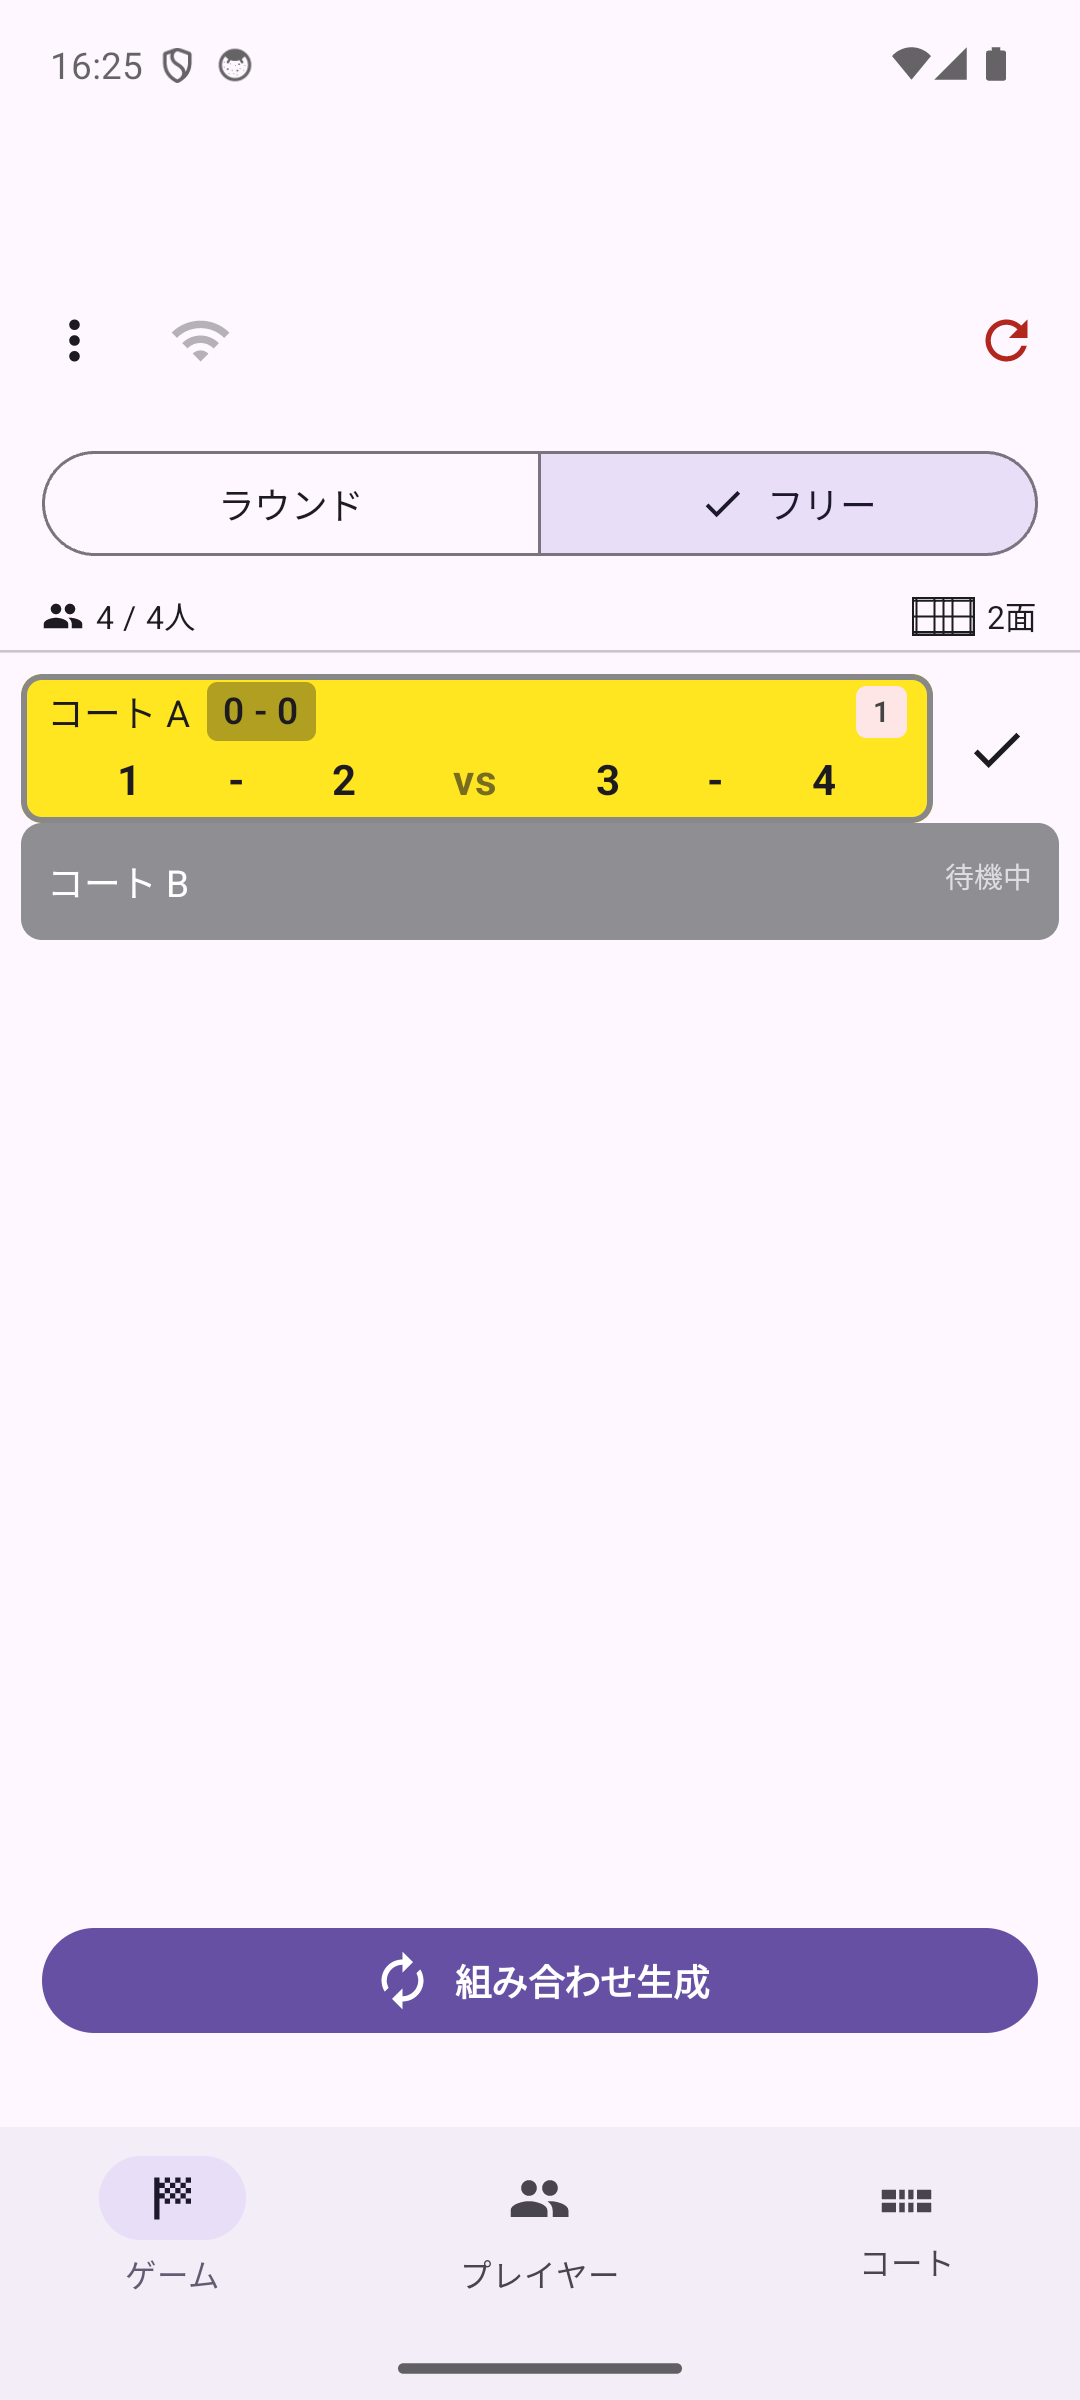
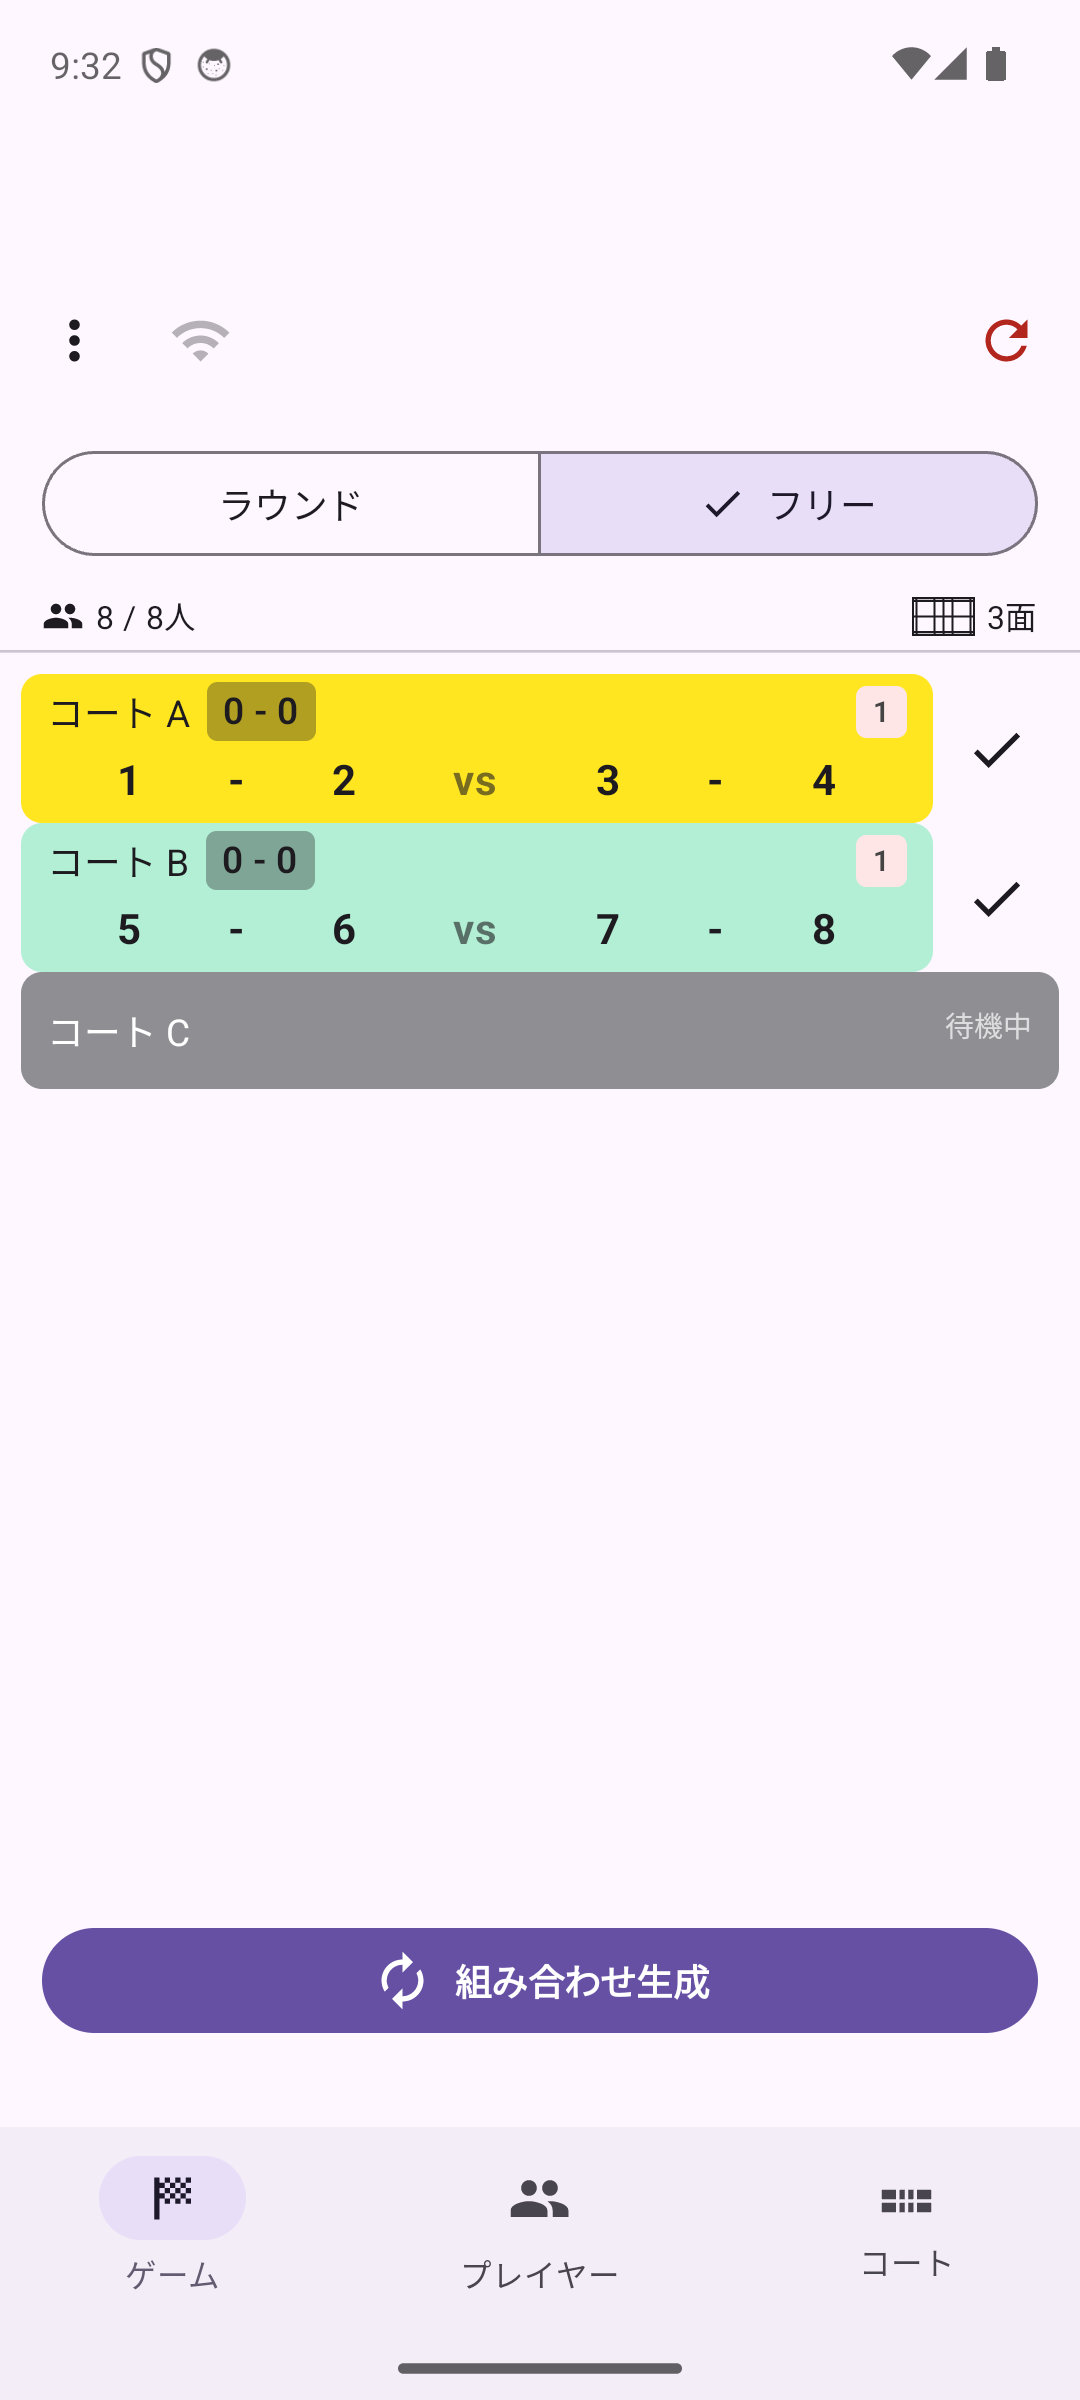
v1.2.9: フリーモード表示の改善とサーバー案内の更新を反映
フリーモードのコート色分け（黄色・緑交互表示）の説明とスクリーンショットを更新し、
切替条件（1&2混合コート除外）の案内も修正。サーバー機能のテザリング案内を
「マスター端末である必要はない」旨に修正。

diff --git a/game-tab.html b/game-tab.html
@@ -52,13 +52,13 @@
 <h2 id="free-mode">2. フリーモード（動的コート割り当て）</h2>
 <p>ゲームタブ上部のモードセレクターで <strong>フリー</strong> を選ぶと、フリーモードに切り替わります。</p>
 <p>フリーモードでは、コートごとに試合の終了・再開を個別に管理できます。空いたコートだけに次の組み合わせが生成されるため、試合時間がバラバラでも効率よく進行できます。</p>
-<div class="note">⚠ フリーモードに切り替えるには、<strong>コートが2面以上</strong>かつ<strong>有効なプレイヤーが8人以上</strong>必要です。条件を満たさない場合はアラートが表示され、ラウンドモードのままになります。</div>
+<div class="note">⚠ フリーモードに切り替えるには、<strong>1&amp;2混合コートを除いて2面以上</strong>かつ<strong>有効なプレイヤーが8人以上</strong>必要です。条件を満たさない場合はアラートが表示され、ラウンドモードのままになります。</div>
 
 <h3>フリーモードの操作</h3>
 <ul>
   <li>試合が終わったら、そのコートの行の右端にあるチェックアイコンをタップして<strong>終了</strong>状態にします</li>
   <li><code>組み合わせ生成</code> で空きコートのみ次の組み合わせが生成されます</li>
-  <li>コートの背景は黄色で表示され、直近の生成で更新されたコートにはグレーの外枠が付きます。終了済みのコートはグレー表示になります</li>
+  <li>終了済みコートは灰色、進行中のコートは黄色と緑を交互に表示します（一覧の見やすさのための色分けで、コートの状態を表すものではありません）</li>
 </ul>
 <div class="ss"><img src="images/advanced-free-mode.png" alt="フリーモードのコート一覧"></div>
 <div class="tip">💡 コート一覧での終了/再開操作と、スコア入力画面の <strong>終了</strong> トグルは連動しています。どちらか一方を操作すればもう一方にも反映されます。</div>
@@ -137,7 +137,8 @@
 <div class="warn">⚠ サーバー稼働中は、この端末の画面をロックしたり他のアプリに切り替えたりしないでください。他の端末との接続が切れる場合があります。</div>
 
 <h4 id="connect">他の端末から接続する</h4>
-<p>接続する端末を、マスター端末と同じ Wi-Fi（またはマスター端末のテザリング）に接続してください。サーバー起動中に Wi-Fi アイコンをタップすると、接続用の URL と QR コードが表示されます。QR コードを読み取るか、URL を直接ブラウザで開いてください。</p>
+<p>接続する端末を、マスター端末と同じ Wi-Fi に接続してください。サーバー起動中に Wi-Fi アイコンをタップすると、接続用の URL と QR コードが表示されます。QR コードを読み取るか、URL を直接ブラウザで開いてください。</p>
+<div class="tip">💡 体育館など会場に Wi-Fi がない場合は、いずれかの端末（マスター端末である必要はありません）のテザリング機能でアクセスポイントを作り、マスター端末を含む他の端末をそこに接続すれば、Wi-Fi がなくてもサーバー機能を利用できます。</div>
 <div class="ss"><img src="images/server-qr.png" alt="QRコード表示画面"></div>
 
 <h4 id="web-features">Web ページでできること</h4>

diff --git a/update-history.html b/update-history.html
@@ -16,6 +16,13 @@
 <p class="back-link"><a href="home.html">← ホームに戻る</a></p>
 <h1>更新履歴</h1>
 
+<h2>v1.2.9</h2>
+<ul>
+  <li>フリーモードのコート一覧表示を変更。直近更新コートのグレー枠線強調を廃止し、進行中のコートは一覧の並び順で黄色・緑を交互に表示するように変更（iOS反映）</li>
+  <li>フリーモードへの切替条件を変更。コート数の判定から1&amp;2混合コートを除外し、警告文にもフリーモードの説明を追記（iOS反映）</li>
+  <li>ゲーム終了後の得点ボタンの視認性を改善。背景色のみ半透明にし、文字色を濃いグレーに変更してコントラスト低下を解消（iOS反映）</li>
+</ul>
+
 <h2>v1.2.8</h2>
 <ul>
   <li>スコア入力画面が常に横向き2カラムレイアウトで表示されていた不具合を修正。iOS版の実際の挙動（強制横向きが安定して効かず、通常は縦向きで表示される）に合わせ、画面の向きに応じて縦向きは1カラムのスクロール表示、横向きは従来の2カラム表示に切り替わるように変更（iOS反映）</li>

diff --git a/home.html b/home.html
@@ -61,9 +61,11 @@
   <li>試合結果メール本文は英語のみ（UI本体は日本語対応）</li>
 </ul>
 
-<h2>バージョン 1.2.8 更新内容</h2>
+<h2>バージョン 1.2.9 更新内容</h2>
 <ul>
-  <li>スコア入力画面が常に横向き2カラムレイアウトで表示されていた不具合を修正。通常は縦向き1カラムのスクロール表示、端末を横向きにすると2カラム表示に切り替わるように変更</li>
+  <li>フリーモードのコート一覧表示を変更。直近更新コートのグレー枠線強調を廃止し、進行中のコートは黄色・緑を交互に表示</li>
+  <li>フリーモードへの切替条件を変更（1&amp;2混合コートを除く2面以上に）し、警告文にもフリーモードの説明を追記</li>
+  <li>ゲーム終了後の得点ボタンの視認性を改善</li>
 </ul>
 
 <h2>フィードバック</h2>

diff --git a/index.html b/index.html
@@ -61,9 +61,11 @@
   <li>試合結果メール本文は英語のみ（UI本体は日本語対応）</li>
 </ul>
 
-<h2>バージョン 1.2.8 更新内容</h2>
+<h2>バージョン 1.2.9 更新内容</h2>
 <ul>
-  <li>スコア入力画面が常に横向き2カラムレイアウトで表示されていた不具合を修正。通常は縦向き1カラムのスクロール表示、端末を横向きにすると2カラム表示に切り替わるように変更</li>
+  <li>フリーモードのコート一覧表示を変更。直近更新コートのグレー枠線強調を廃止し、進行中のコートは黄色・緑を交互に表示</li>
+  <li>フリーモードへの切替条件を変更（1&amp;2混合コートを除く2面以上に）し、警告文にもフリーモードの説明を追記</li>
+  <li>ゲーム終了後の得点ボタンの視認性を改善</li>
 </ul>
 
 <h2>フィードバック</h2>
